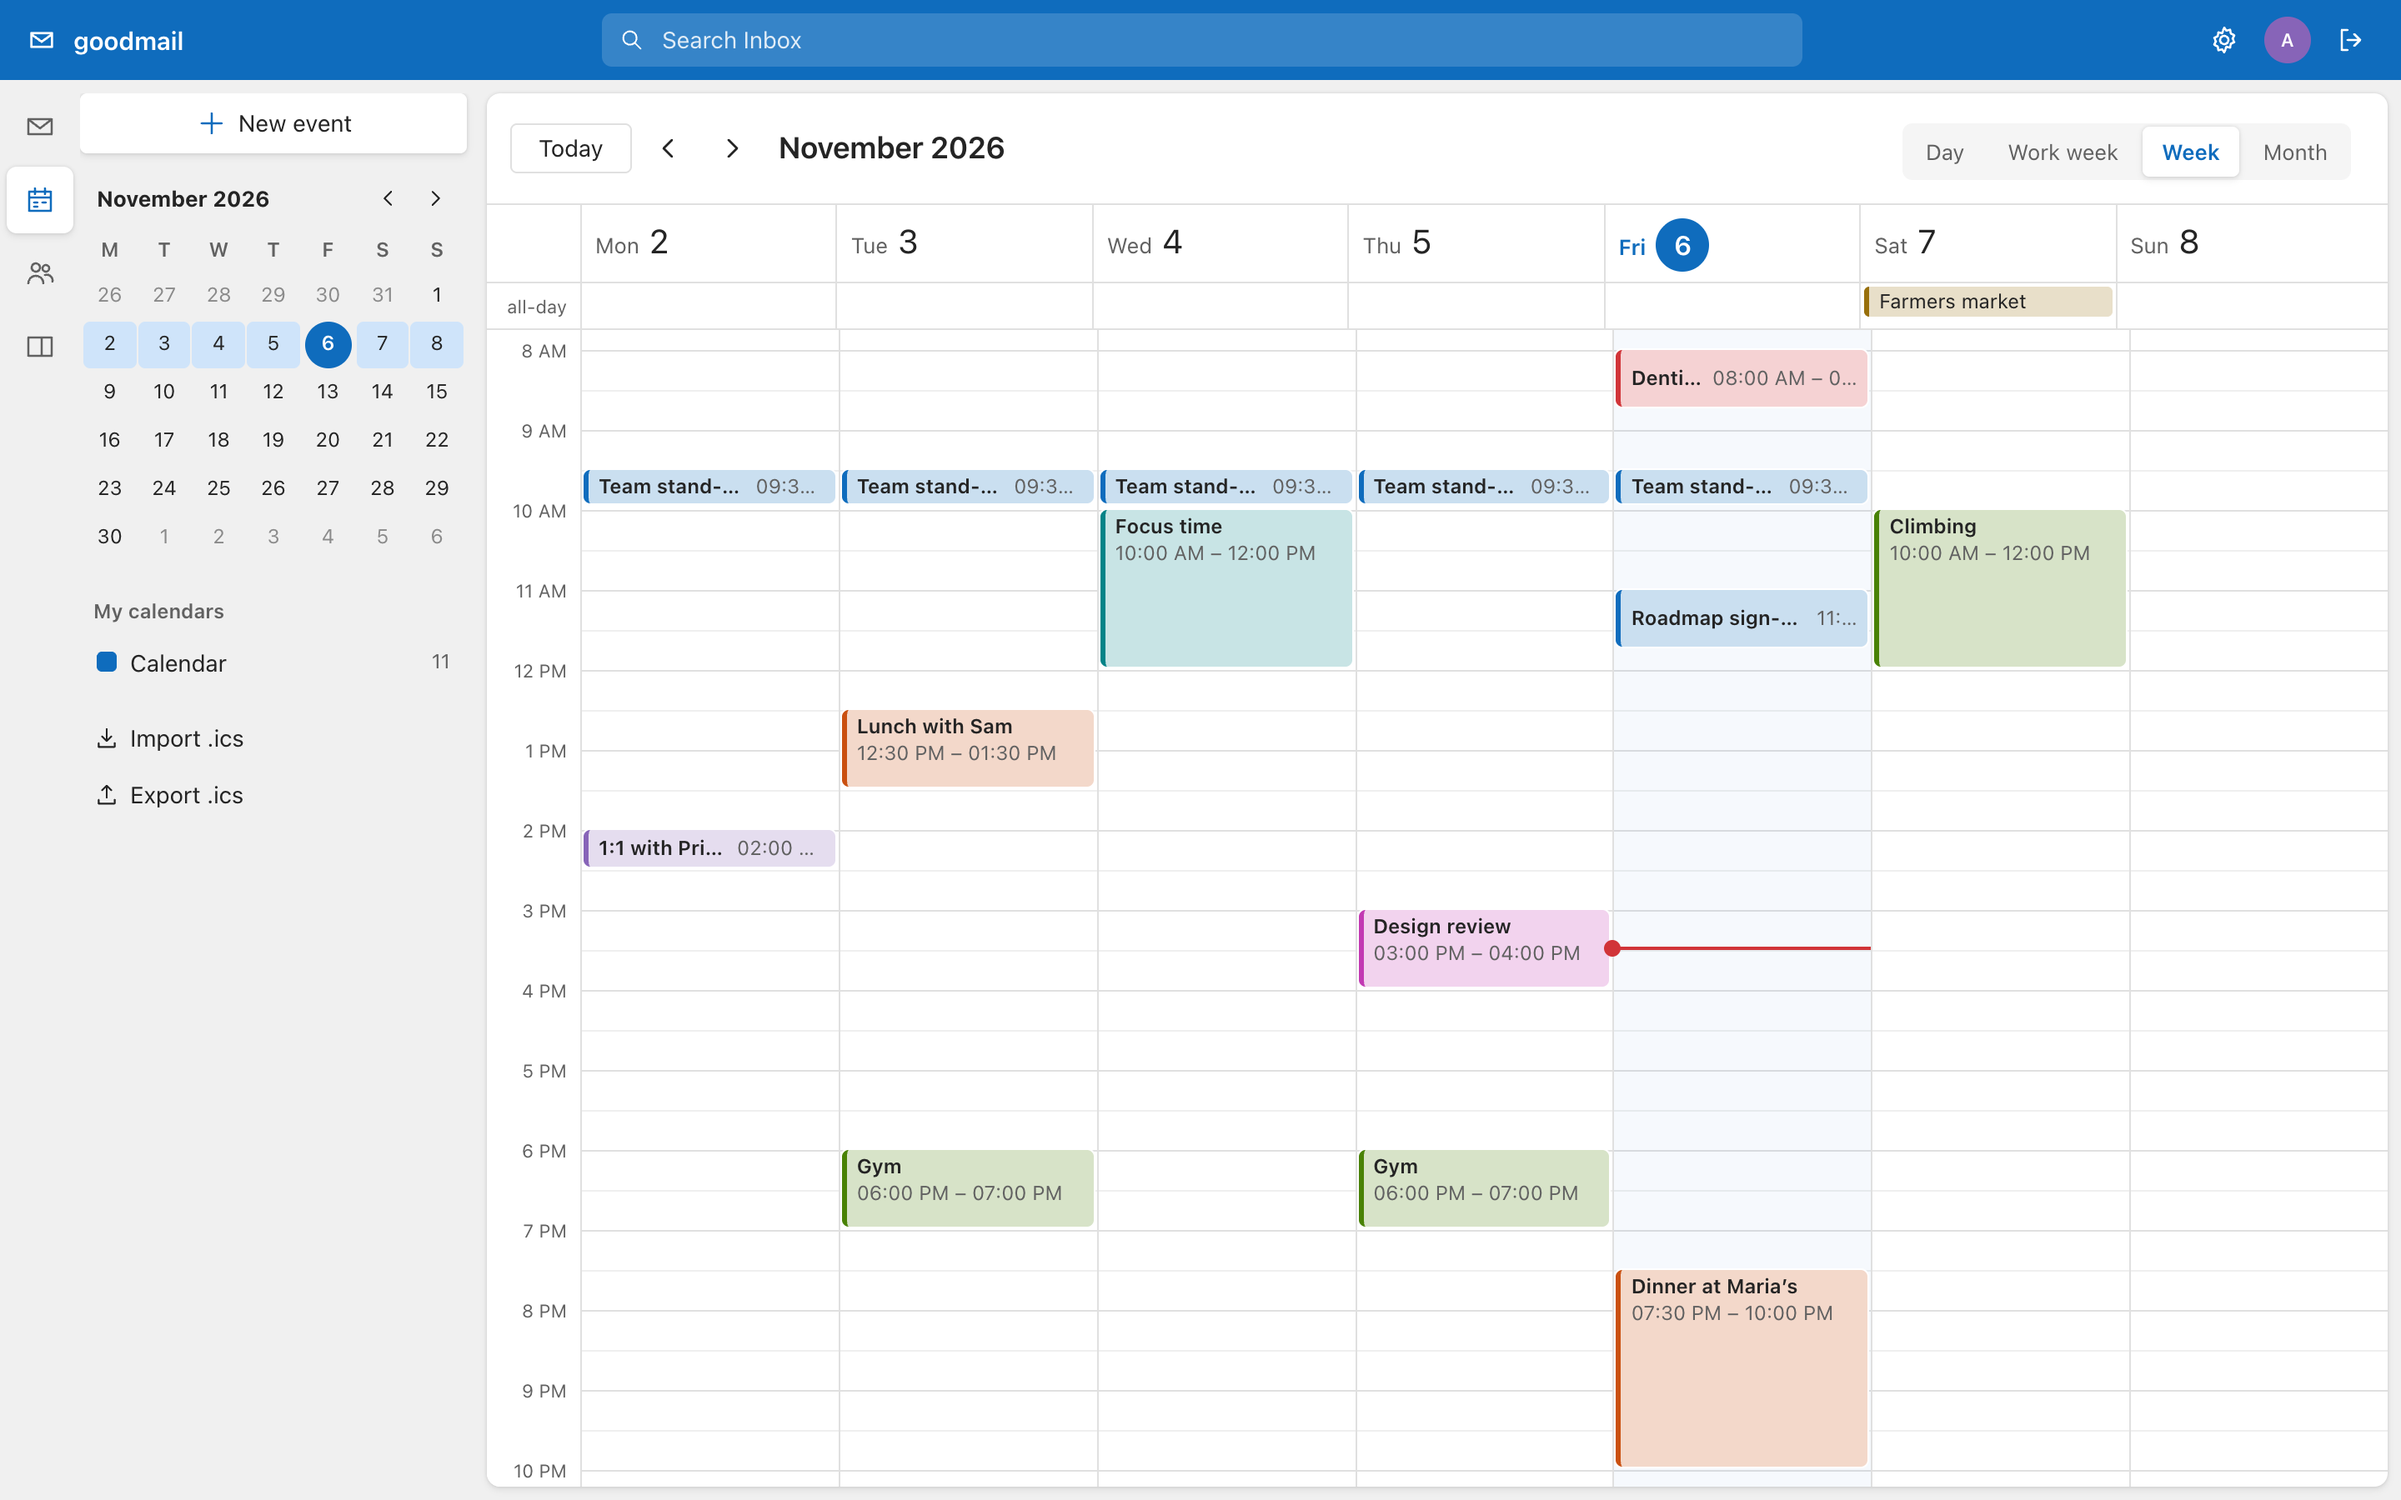
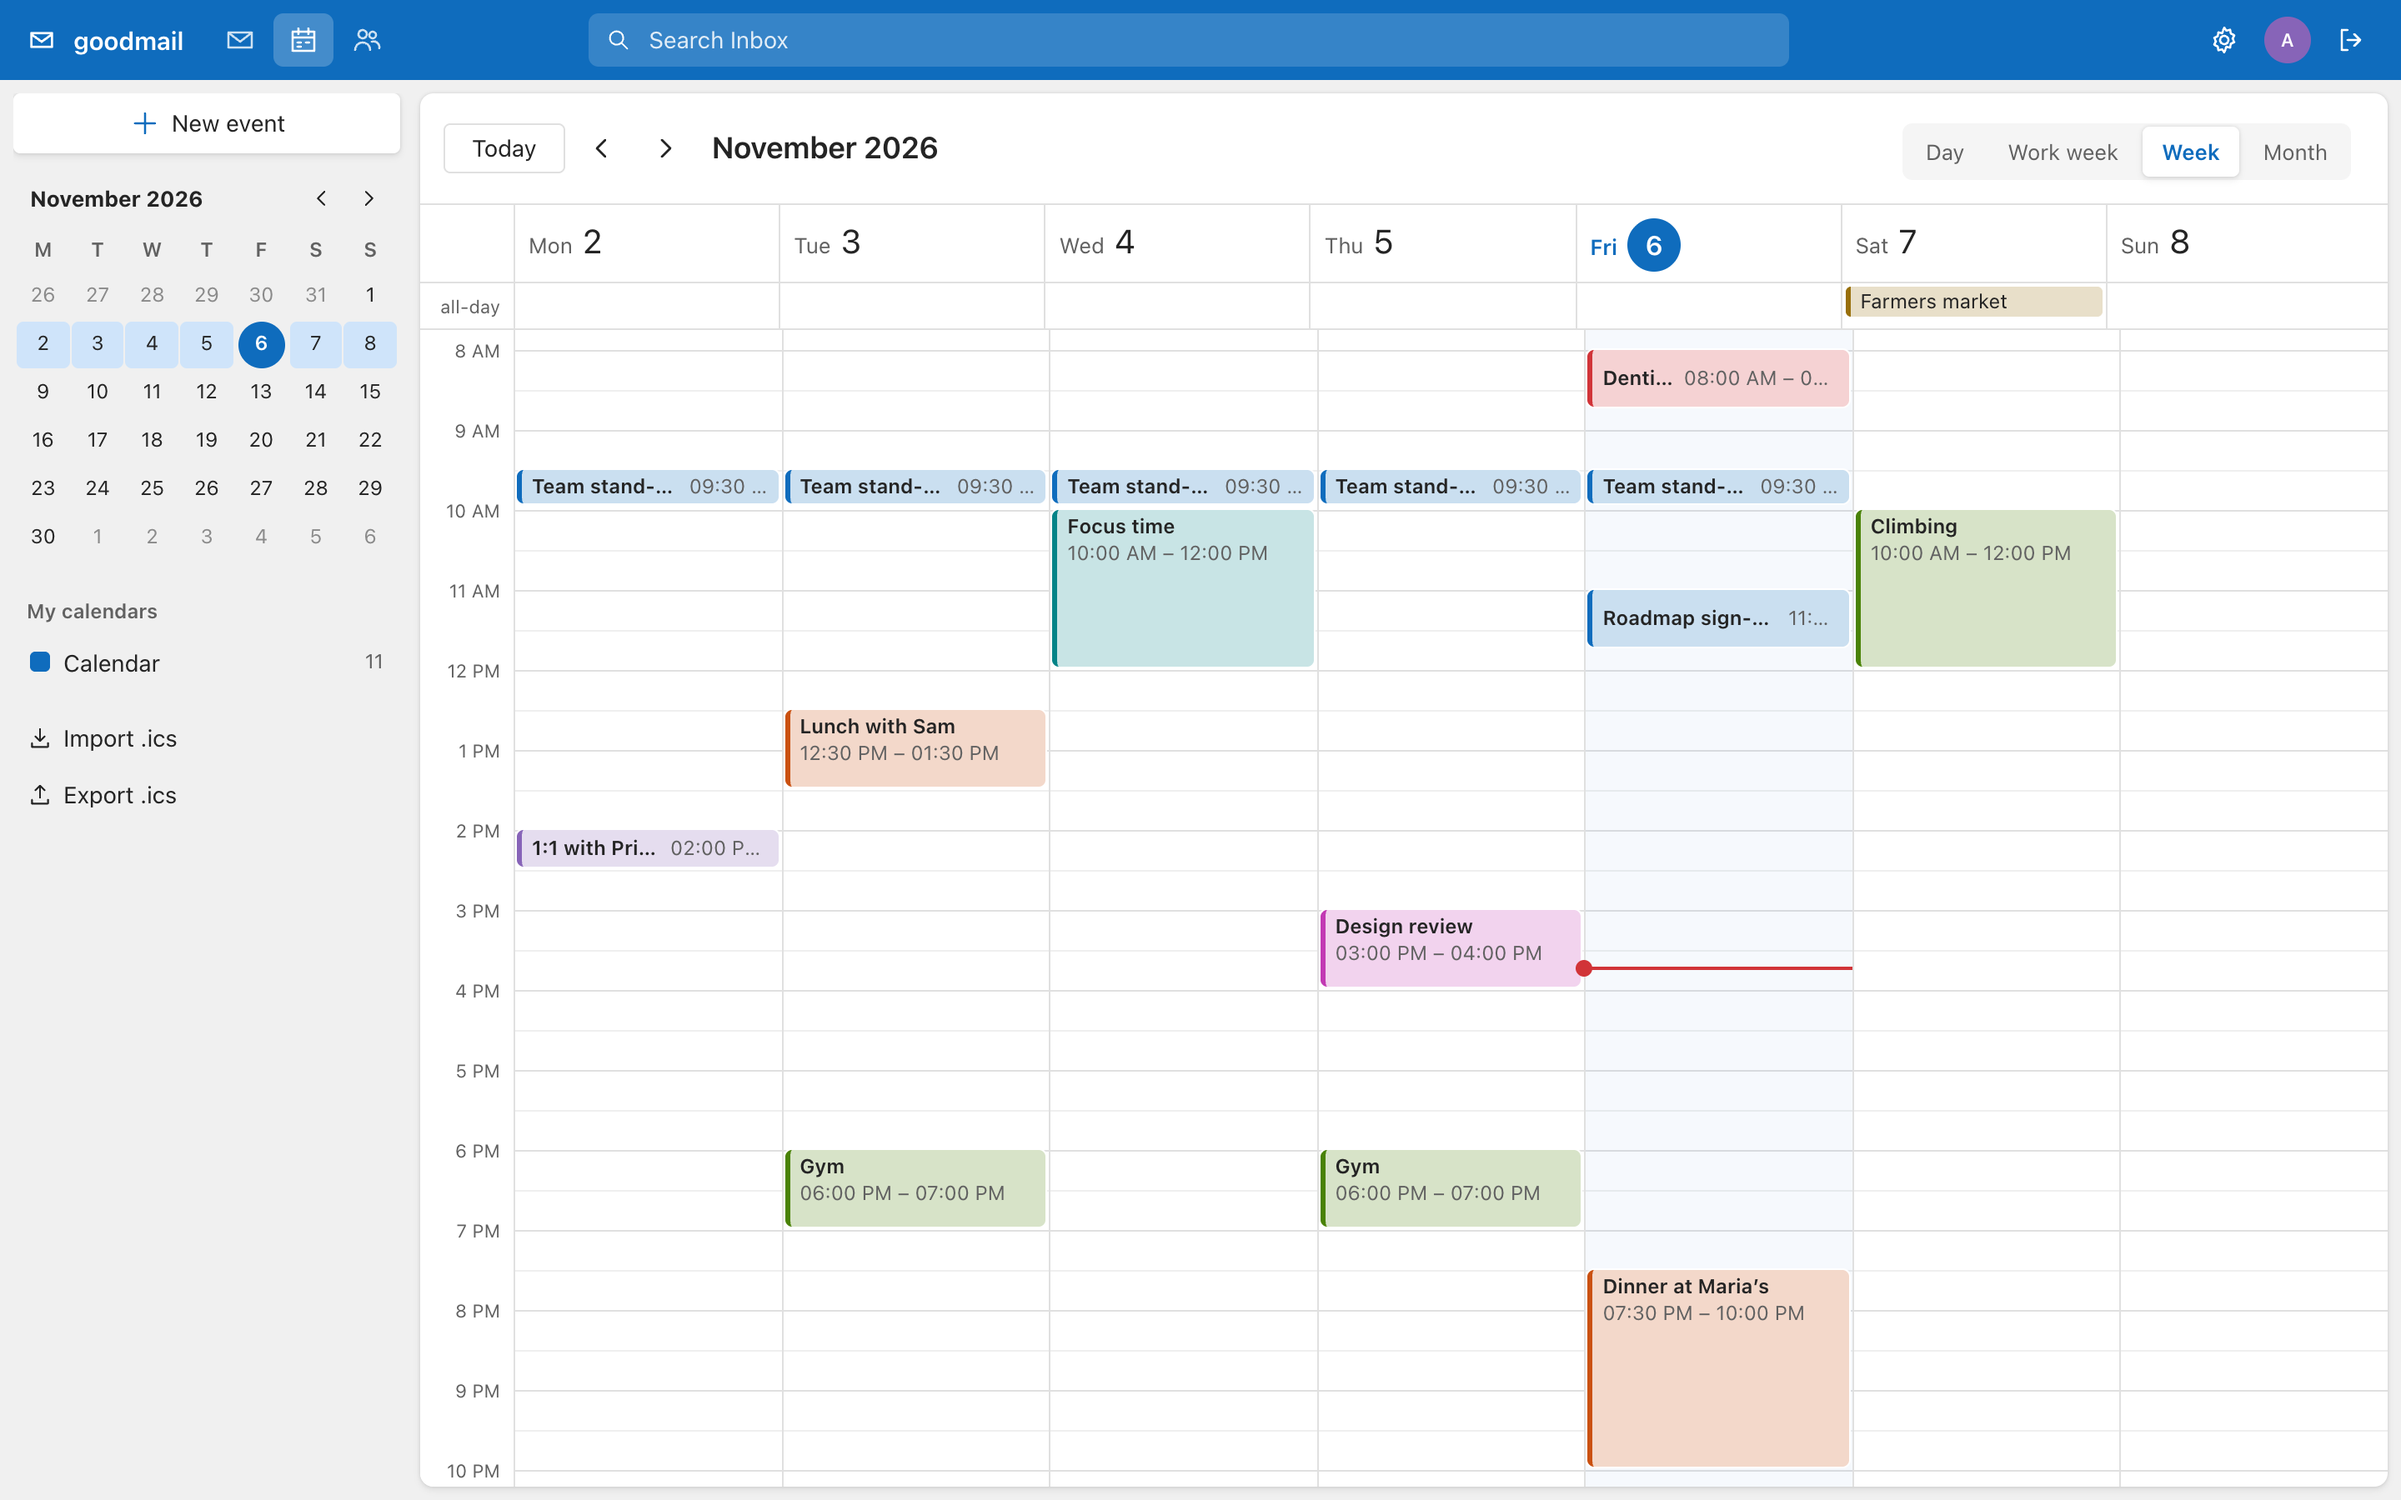
Move Mail/Calendar/Contacts from the left rail into the top bar; refresh screenshots (0.4.5)

diff --git a/web/src/styles.css b/web/src/styles.css
@@ -97,7 +97,7 @@ input { font: inherit; color: inherit; }
 /* ---------- shell ---------- */
 .app { height: 100%; display: flex; flex-direction: column; }
 .topbar { height: 48px; flex: none; background: var(--brand); color: #fff; display: flex; align-items: center; gap: 16px; padding: 0 12px 0 14px; }
-.brand { display: flex; align-items: center; gap: 8px; font-weight: 600; font-size: 15px; width: 240px; flex: none; }
+.brand { display: flex; align-items: center; gap: 8px; font-weight: 600; font-size: 15px; flex: none; white-space: nowrap; }
 .search { flex: 1; max-width: 720px; margin: 0 auto; height: 32px; display: flex; align-items: center; gap: 8px; padding: 0 10px; border-radius: 6px; background: rgba(255,255,255,.16); color: #fff; }
 .search:focus-within { background: var(--surface); color: var(--text); box-shadow: var(--shadow); }
 .search input { flex: 1; min-width: 0; border: 0; background: none; outline: none; color: inherit; }
@@ -109,11 +109,11 @@ input { font: inherit; color: inherit; }
 .avatar { border-radius: 50%; color: #fff; display: inline-grid; place-items: center; font-weight: 600; flex: none; letter-spacing: .02em; user-select: none; }
 
 .body { flex: 1; min-height: 0; display: flex; }
-.rail { width: 48px; flex: none; display: flex; flex-direction: column; align-items: center; gap: 4px; padding-top: 8px; }
-.rail-btn { width: 40px; height: 40px; border-radius: 6px; display: grid; place-items: center; color: var(--text-2); }
-.rail-btn:hover { background: var(--hover); }
-.rail-btn.active { color: var(--brand); background: var(--surface); box-shadow: var(--shadow); }
-.main { flex: 1; min-width: 0; display: flex; flex-direction: column; padding: 0 8px 8px 0; }
+.apps { display: flex; gap: 2px; flex: none; }
+.app-btn { width: 36px; height: 32px; border-radius: 6px; display: grid; place-items: center; color: #fff; opacity: .8; }
+.app-btn:hover { opacity: 1; background: rgba(255,255,255,.15); }
+.app-btn.active { opacity: 1; background: rgba(255,255,255,.22); }
+.main { flex: 1; min-width: 0; display: flex; flex-direction: column; padding: 0 8px 8px 8px; }
 
 .toolbar { height: 44px; flex: none; display: flex; align-items: center; gap: 2px; padding: 0 4px; overflow: hidden; }
 .tb { height: 32px; padding: 0 8px; border-radius: 4px; display: inline-flex; align-items: center; gap: 6px; white-space: nowrap; color: var(--text); }
@@ -401,7 +401,7 @@ body.resizing iframe, body.resizing-h iframe { pointer-events: none; }
 @media (max-width: 760px) {
   .phone-only { display: inline-flex !important; }
   .drawer-foot.phone-only { display: block !important; border-top: 1px solid var(--border); margin-top: 12px; padding-top: 4px; }
-  .desk-only, .toolbar, .rail, .brand, .splitter { display: none !important; }
+  .desk-only, .toolbar, .brand, .splitter { display: none !important; }
   .app { height: 100dvh; }
   body { overscroll-behavior: none; }
   .topbar { gap: 4px; padding: 0 4px 0 2px; }

diff --git a/web/src/App.tsx b/web/src/App.tsx
@@ -627,6 +627,19 @@ function Mail({ me, appName, source, onLogout }: { me: Me; appName: string; sour
           <img src="/favicon.svg" alt="" width={22} height={22} />
           {appName}
         </div>
+        <nav className="apps desk-only">
+          {(
+            [
+              ['mail', 'mail', 'Mail'],
+              ['calendar', 'calendar', 'Calendar'],
+              ['contacts', 'people', 'Contacts'],
+            ] as const
+          ).map(([id, icon, label]) => (
+            <button key={id} className={`app-btn ${view === id ? 'active' : ''}`} title={label} aria-label={label} aria-pressed={view === id} onClick={() => setView(id)}>
+              <Icon name={icon} />
+            </button>
+          ))}
+        </nav>
         <form
           className="search"
           onSubmit={(e) => {
@@ -663,20 +676,6 @@ function Mail({ me, appName, source, onLogout }: { me: Me; appName: string; sour
       </header>
 
       <div className="body">
-        <nav className="rail">
-          <button className={`rail-btn ${view === 'mail' ? 'active' : ''}`} title="Mail" onClick={() => setView('mail')}>
-            <Icon name="mail" />
-          </button>
-          <button className={`rail-btn ${view === 'calendar' ? 'active' : ''}`} title="Calendar" onClick={() => setView('calendar')}>
-            <Icon name="calendar" />
-          </button>
-          <button className={`rail-btn ${view === 'contacts' ? 'active' : ''}`} title="Contacts" onClick={() => setView('contacts')}>
-            <Icon name="people" />
-          </button>
-          <button className="rail-btn" title="Toggle folder pane" onClick={() => { setFoldersHidden(!foldersHidden); save('foldersHidden', !foldersHidden); }}>
-            <Icon name="pane" />
-          </button>
-        </nav>
 
         <div className="main">
           {view === 'calendar' ? (
@@ -696,7 +695,7 @@ function Mail({ me, appName, source, onLogout }: { me: Me; appName: string; sour
           ) : (
           <>
           <div className="toolbar">
-            <button className="tb" onClick={() => setFoldersHidden(!foldersHidden)} title="Folders">
+            <button className="tb" onClick={() => { setFoldersHidden(!foldersHidden); save('foldersHidden', !foldersHidden); }} title="Show/hide folders">
               <Icon name="menu" />
             </button>
             <button className="tb new" onClick={() => setCompose({ mode: 'new' })}>
